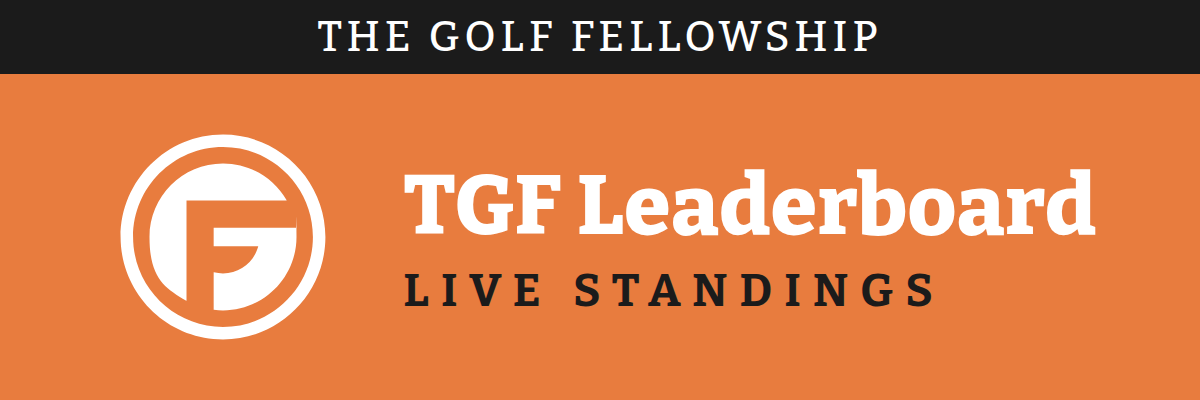
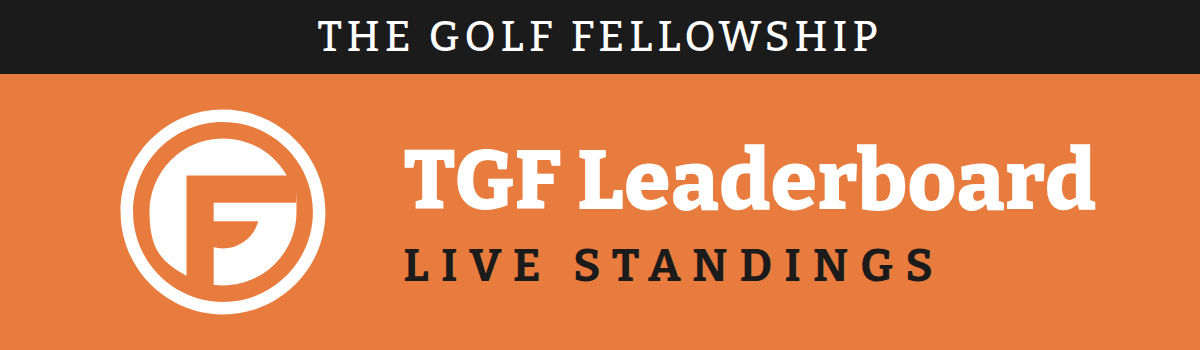
style: tighten preview cards to 1200x350, balanced padding around the art (v2.255.8)
Claude-Session: https://claude.ai/code/session_012FvSk9DKuqXMEcTJxKdnKy

diff --git a/transaction-tracker/templates/contests.html b/transaction-tracker/templates/contests.html
@@ -23,17 +23,17 @@
     {% if lsc_landing %}
     {% set og_title = "The Lone Star Cup Qualifiers" %}
     {% set og_desc = "Austin vs San Antonio — projected rosters live from today's standings, plus points races and Match Play." %}
-    {% set og_image = "/static/og-lone-star-cup.png?v=404" %}
+    {% set og_image = "/static/og-lone-star-cup.png?v=405" %}
     {% elif mp_landing %}
     {% set og_title = "City Match Play — " ~ mp_landing %}
     {% set og_desc = "Follow the matches live — hole-by-hole scorecards, running margins, and the bracket." %}
-    {% set og_image = "/static/og-match-play.png?v=404" %}
+    {% set og_image = "/static/og-match-play.png?v=405" %}
     {% else %}
     {% set og_title = "TGF Leaderboard" %}
     {% set og_desc = "Points races, Match Play, and the Lone Star Cup — live standings for San Antonio & Austin." %}
     {# Wide banner, not the bare app icon — iMessage renders a square
        512px og:image as a huge card (Kerry 2026-08-21: "Way too big"). #}
-    {% set og_image = "/static/og-leaderboard.png?v=404" %}
+    {% set og_image = "/static/og-leaderboard.png?v=405" %}
     {% endif %}
     {% include "_og_meta.html" %}
     <link rel="stylesheet" href="/static/css/dashboard.css?v={{ app_version }}">

diff --git a/transaction-tracker/static/js/version.js b/transaction-tracker/static/js/version.js
@@ -1,5 +1,12 @@
-window.TGF_VERSION = "2.255.7";
+window.TGF_VERSION = "2.255.8";
 window.TGF_CHANGELOG = [
+  {
+    version: "2.255.8",
+    date: "2026-08-21",
+    changes: [
+      "Preview cards tightened from 400px to 350px tall (Kerry: 'adjust the padding above and below the main body logo and text to reduce and balance') — the art stays centered under the header bar with roughly 20px of even breathing room around the tallest element instead of the previous looser margins. Cache-buster ?v=405.",
+    ],
+  },
   {
     version: "2.255.7",
     date: "2026-08-21",
